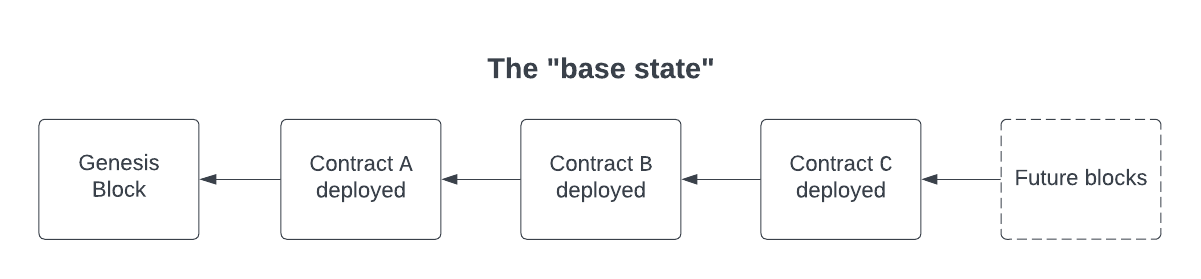
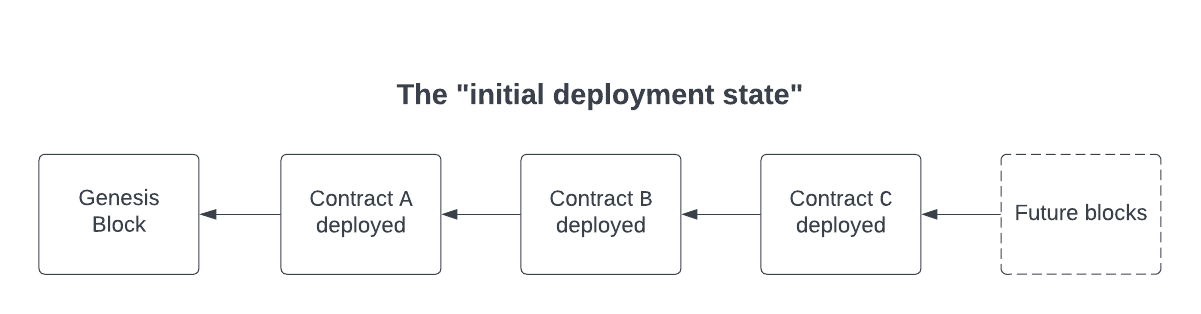
more stuff on function-level invariants

diff --git a/docs/src/testing/fuzzing_lifecycle.md b/docs/src/testing/fuzzing_lifecycle.md
@@ -4,8 +4,6 @@ Understanding what medusa is doing under-the-hood significantly aids in understa
 and also in writing fuzz tests. This chapter will walk you through the process of deploying the target contracts,
 generating and executing call sequences, using the corpus, updating coverage, and resetting the blockchain. 
 
-TODO come up with a better intro here
-
 ## Contract deployment
 
 The contract deployment process will deploy each contract specified in the 
@@ -14,8 +12,8 @@ are dynamically deployed during the _construction_ of a target contract are also
 contracts are done by the configurable 
 [`fuzzing.deployerAddress`](../project_configuration/fuzzing_config.md#deployeraddress) address.
 
-We will call the state of the blockchain after all the target contracts are deployed as the **"base state"**. This is
-the state of the blockchain before any transactions have been executed by the fuzzer. Here is what the underlying
+We will call the state of the blockchain after all the target contracts are deployed as the **"initial deployment state"**.
+This is  the state of the blockchain before any transactions have been executed by the fuzzer. Here is what the underlying
 blockchain would look like after the deployment of contracts `A`, `B`, `C` (assuming no other dynamic deployments).
 
 ![Contract Deployment Diagram](../static/contract_deployment.png)
@@ -25,33 +23,19 @@ Now that we have our target contracts deployed, we can start executing call sequ
 ## Call sequence execution
 
 Call sequence execution is the crux of the fuzzing lifecycle. At a high-level, call sequence execution is the **iterative
-process of executing fuzzed transactions on the base state** in hopes of violating (or validating) an invariant.
+process of executing fuzzed transactions on the initial deployment state** in hopes of violating (or validating) an invariant.
 Before continuing, it is important to understand what a call sequence is.
 
 ### Defining a call sequence
 
 A call sequence is an **array of individual transactions**. The length of the array is governed by the
 [`fuzzing.callSequenceLength`](../project_configuration/fuzzing_config.md#callsequencelength) configuration parameter.
-Having a call sequence length of greater than 1 allows for **stateful fuzzing**.
+The fuzzer will maintain EVM state for the duration of a call sequence before [resetting the state](#resetting-the-blockchain).
+Thus, if you have a call sequence length of 10, medusa will execute 10 transactions, maintain state throughout that
+process, and then wipe the EVM state. Having a call sequence length of 1 means that medusa will wipe the state after
+each transaction. This is useful for fuzz testing arithmetic libraries or isolated functions. 
 
-> **Definition**: Stateful fuzzing is the process of maintaining EVM state across multiple fuzzed transactions.
-
-Stateful fuzzing is an incredibly powerful feature because it allows medusa to test your system **end-to-end**. Let's
-take, for example, a staking system where you have the ability to `deposit`, `stake`, `unstake`, and `withdraw`. Because
-medusa can execute an array of transactions, medusa can call [`deposit`, `stake`, `unstake`, `withdraw`] inorder and test the
-whole system in one fell swoop. It is very important to note that medusa was not _forced_ to call those functions in
-sequence. Medusa, over time, will identify that calling deposit allows it to stake tokens and having a staked balance
-allows it to unstake, and so on. 
-
-In contrast, having a call sequence length of 1 is called **stateless fuzzing**.
-
-> **Definition**: Stateless fuzzing is the process of executing a single transaction before resetting the EVM state.
-
-Stateless fuzzing is useful for arithmetic libraries or isolated functions where state does not need to be maintained
-across transactions. Stateless fuzzing, although faster, is not useful for larger systems that have many code paths with
-nuanced and complex invariants.
-
-Now that we know what a call sequence is, let us look at how medusa generates a call sequence.
+Now that you know what a call sequence is, let's discuss how to generate a call sequence.
 
 ### Generating a call sequence
 
@@ -146,5 +130,5 @@ the different types of invariants and what an invariant failure means in the [ne
 ## Resetting the blockchain
 
 The final step in the fuzzing lifecycle is resetting the blockchain. Resetting the blockchain is as simple as reverting
-to the "base state" of the blockchain. Once we reset back to the "base state", we can now generate and execute
+to the "initial deployment state" of the blockchain. Once we reset back to the "initial deployment state", we can now generate and execute
 another call sequence!

diff --git a/docs/src/testing/invariants.md b/docs/src/testing/invariants.md
@@ -1,1 +1,72 @@
 # Types of Invariants
+
+As discussed in the [testing overview](./overview.md) chapter, invariants describe the "truths" of your system. These
+are unchanging properties that arise from the design of a codebase. 
+
+> **Note**: We will interchange the use of the word property and invariant often. For all intents and purposes, they
+> mean the same thing.
+
+Defining and testing your invariants is critical to assessing the **expected system behavior**.
+
+We like to break down invariants into two general categories: function-level invariants and system-level invariants.
+Note that there are other ways of defining and scoping invariants, but this distinction is generally sufficient to
+start fuzz testing even the most complex systems.
+
+## Function-level invariants
+
+A function-level invariant can be defined as follows:
+
+> **Definition**: A function-level invariant is a property that arises from the execution of a specific function.
+
+Let's take the following function from a smart contract:
+```solidity
+function deposit(uint256 amount) public {
+    // Ensure depositor is registered with the system
+    require(_isRegistered(msg.sender));
+    
+    // Make sure that the total deposited amount does not exceed the limit
+    require(totalDeposited + amount <= MAX_DEPOSIT_AMOUNT);
+    
+    // Transfer the tokens
+    usdc.transferFrom(msg.sender, address(this), amount);
+    
+    // Update the user balance and total deposited
+    balances[msg.sender] += amount;
+    totalDeposited += amount;
+    
+    emit Deposit(msg.sender, amount, totalDeposited);
+}
+```
+
+The `deposit` function has the following function-level invariants:
+1. `msg.sender` must be registered to deposit tokens
+2. The `usdc` token balance of `msg.sender` must decrease by `amount`.
+3. The `usdc` token balance of `address(this)` must increase by `amount`.
+4. The `balances[msg.sender]` should increase by `amount`.
+5. The `totalDeposited` value should increase by `amount`. 
+
+Note that there other properties that can also be tested for but the above should highlight what a function-level
+invariant is. In general, function-level invariants can be identified by assessing what must be true _before_ the execution
+of a function and what must be true _after_ the execution of that same function. In the next chapter, we will write a 
+fuzz test to test the `deposit` function and how to use medusa to run that test.
+
+Let's now look at system-level invariants.
+
+## System-level invariants
+
+A system-level invariant can be defined as follows:
+
+> **Definition**: A system-level invariant is a property that holds true across the _entire_ execution of a system
+
+Thus, a system-level invariant is a lot more generalized than a function-level invariant. Here are two common examples
+of a function-level invariant:
+1. The `xy=k` constant product formula should always hold for Uniswap pools
+2. No user's balance should ever exceed the total supply for an ERC20 token.
+
+In the `deposit` function above, we also see the presence of a system-level invariant:
+
+**The `totalDeposited` amount should always be less than or equal to the `MAX_DEPOSIT_AMOUNT`**. 
+
+Since the `totalDeposited` value can be affected by the presence of other functions in the system 
+(e.g. `withdraw` or `stake`), it is best tested at the system level instead of the function level. We will look at how
+to write system-level invariants in the [Writing System-Level Invariants](./writing-system-level-invariants.md) chapter.

diff --git a/docs/src/testing/writing-function-level-invariants.md b/docs/src/testing/writing-function-level-invariants.md
@@ -1,0 +1,84 @@
+# Writing Function-Level Invariants
+
+This chapter will walk you through writing function-level fuzz tests for the `deposit` function that we saw in the 
+[previous chapter](./invariants.md#function-level-invariants).
+
+Before we write the fuzz tests, let's look into how we would write a unit test for the `deposit` function
+
+```solidity
+function testDeposit() public {
+    // The amount of tokens to deposit
+    uint256 amount = 10 ether;
+    
+    // Register the user
+    depositContract.registerUser(address(this));
+    
+    // Retrieve balance of user before deposit
+    preBalance = depositContract.balances(address(this));
+    
+    // Call the deposit contract (let's assume this contract has 10e18 tokens)
+    depositContract.deposit(amount);
+    
+    // Assert post-conditions
+    assert(depositContract.balances(msg.sender) == preBalance + amount);
+    // Add other assertions here
+}
+```
+
+What we will notice about the test above is that it _fixes_ the value that is being sent. It is unable to
+test how the `deposit` function behaves across a variety of input spaces. Thus, a function-level fuzz test can be thought
+of as a "unit test on steroids". Instead of fixing the `amount`, we let the fuzzer control the `amount` value to
+any number between `[0, type(uint256).max`] and see how the system behaves to that.
+
+> **Note**: One of the core differences between a traditional unit test versus a fuzz test is that a fuzz test accepts
+> input arguments that the fuzzer can control.
+
+Here is what a fuzz test for the `deposit` function would look like:
+
+```solidity
+function testDeposit(uint256 _amount) public {
+    // Let's bound the input to be _at most_ the amount of USDC tokens that this contract has
+    // The amount value will now in between [0, usdc.balanceOf(address(this))]
+    uint256 amount = clampLt(_amount, usdc.balanceOf(address(this)));
+    
+    // Register the user
+    depositContract.registerUser(address(this));
+    
+    // Retrieve balance of user before deposit
+    preBalance = depositContract.balances(address(this));
+    
+    // Call the deposit contract with a variable amount
+    depositContract.deposit(amount);
+    
+    // Assert post-conditions
+    assert(depositContract.balances(msg.sender) == preBalance + amount);
+    // Add other assertions here
+}
+```
+
+Notice that we bounded the `_amount`  variable to be less than the amount of `usdc` tokens that `address(this)` has. This
+type of bounding is very common when writing fuzz tests. Bounding allows you to only test values that are reasonable.
+If `address(this)` doesn't have enough tokens, it does not make sense to try and call the `deposit` function. Additionally,
+although we only tested one of the function-level invariants from the [previous chapter](./invariants.md), 
+writing the remaining would follow the same pattern as the one written above.
+
+## Running a function-level test with medusa
+
+Let's now run the above example with medusa. Here is the test code:
+
+```solidity
+contract DepositContract {
+    
+    
+}
+
+
+TODO
+```
+
+
+
+
+
+
+

diff --git a/docs/src/advanced.md b/docs/src/advanced.md
@@ -1,0 +1,16 @@
+> **Definition**: Stateful fuzzing is the process of maintaining EVM state across multiple fuzzed transactions.
+
+Stateful fuzzing is an incredibly powerful feature because it allows medusa to test your system **end-to-end**. Let's
+take, for example, a staking system where you have the ability to `deposit`, `stake`, `unstake`, and `withdraw`. Because
+medusa can execute an array of transactions, medusa can call [`deposit`, `stake`, `unstake`, `withdraw`] inorder and test the
+whole system in one fell swoop. It is very important to note that medusa was not _forced_ to call those functions in
+sequence. Medusa, over time, will identify that calling deposit allows it to stake tokens and having a staked balance
+allows it to unstake, and so on.
+
+In contrast, having a call sequence length of 1 is called **stateless fuzzing**.
+
+> **Definition**: Stateless fuzzing is the process of executing a single transaction before resetting the EVM state.
+
+Stateless fuzzing is useful for arithmetic libraries or isolated functions where state does not need to be maintained
+across transactions. Stateless fuzzing, although faster, is not useful for larger systems that have many code paths with
+nuanced and complex invariants.

diff --git a/docs/src/SUMMARY.md b/docs/src/SUMMARY.md
@@ -24,6 +24,8 @@
 - [Testing Overview](./testing/overview.md)
 - [The Fuzzing Lifecycle](./testing/fuzzing_lifecycle.md)
 - [Types of Invariants](./testing/invariants.md)
+- [Writing Function-Level Invariants](./testing/writing-function-level-invariants.md)
+- [Writing System-Level Invariants](./testing/writing-system-level-invariants.md)
 - [API Overview (WIP)](./api-overview.md)
 - [Testing with `medusa`](./writing-tests.md)
 

diff --git a/docs/src/testing/writing-system-level-invariants.md b/docs/src/testing/writing-system-level-invariants.md
@@ -1,0 +1,1 @@
+# Writing System-Level Invariants
